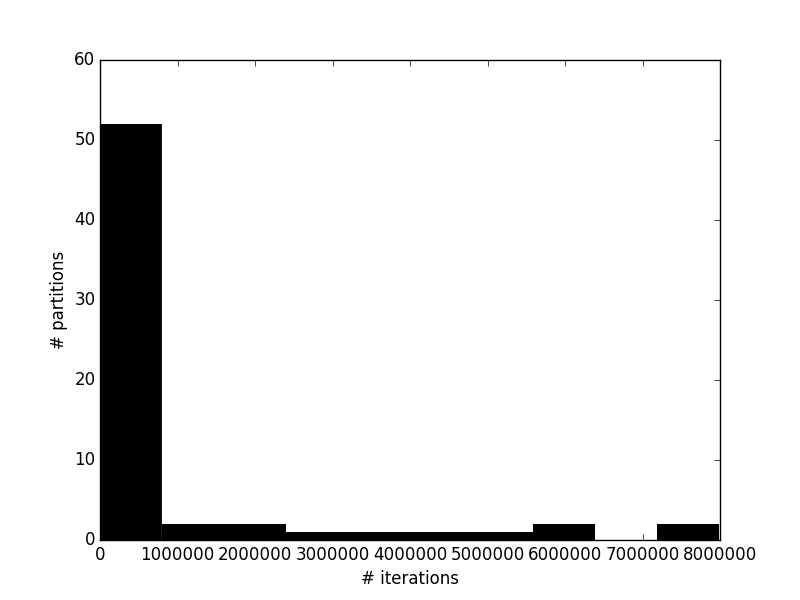
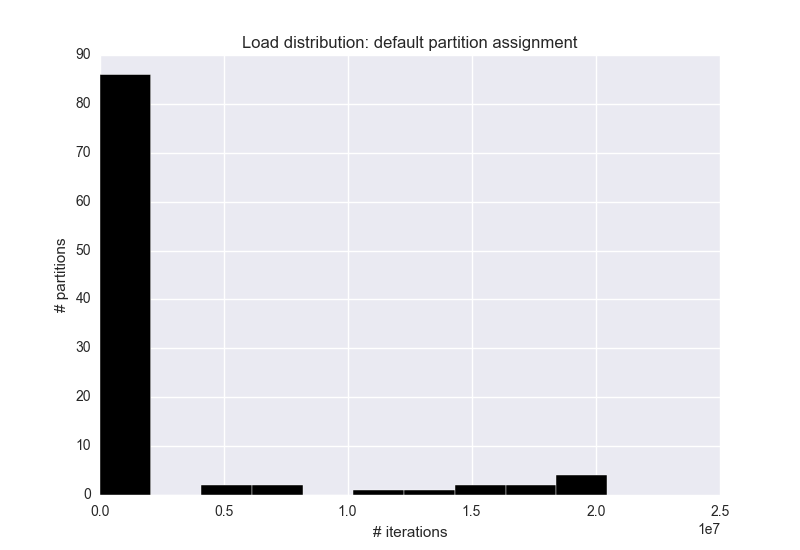
Finished code for P2

diff --git a/HW1/P2/P2a.py b/HW1/P2/P2a.py
@@ -9,76 +9,51 @@ findspark.init()
 import pyspark
 sc = pyspark.SparkContext(appName="Spark 2")
 
-
-# In[2]:
-
 import numpy as np
 import matplotlib.pyplot as plt 
 import matplotlib.cm as cm
+import seaborn
+from P2 import *
 
 
-# In[3]:
-
-# Given functions
-def mandelbrot(x, y):
-    z = c = complex(x, y)
-    iteration = 0
-    max_iteration = 511  # arbitrary cutoff
-    while abs(z) < 2 and iteration < max_iteration:
-        z = z * z + c
-        iteration += 1
-    return iteration
-
-def sum_values_for_partitions(rdd):
-    'Returns (as an RDD) the sum of V for each partition of a (K, V) RDD'
-    # note that the function passed to mapPartitions should return a sequence,
-    # not a value.
-    return rdd.mapPartitions(lambda part: [sum(V for K, V in part)])
-
-def draw_image(rdd):
-    '''Given a (K, V) RDD with K = (I, J) and V = count,
-    display an image of count at each I, J'''
-
-    data = rdd.collect()
-    I = np.array([d[0][0] for d in data])
-    J = np.array([d[0][1] for d in data])
-    C = np.array([d[1] for d in data])
-    im = np.zeros((I.max() + 1, J.max() + 1))
-    im[I, J] = np.log(C + 1)  # log intensity makes it easier to see levels
-    plt.imshow(im, cmap=cm.gray)
-    plt.show()
-
-
-# In[77]:
+# In[4]:
 
 # Construct indices to span the 2000 by 2000 grid 
 # of Mandelbrot computations
 gridsz = 2000
-n_parts = 100
+n_parts = 10
 rdd = sc.parallelize(np.arange(gridsz), n_parts)
 rdd_paired = rdd.cartesian(rdd)
 
 
-# In[78]:
+# In[7]:
 
 # Compute mendelbrot on each pixel. 
 # Note that dimensions (x, y) correspond to (j, i)
 def map2xy(ij_coord):
-    return ij_coord / 250.0 - 2
-res = rdd_pair.map(lambda IJ: (IJ, mandelbrot(map2xy(IJ[1]), map2xy(IJ[0])))) 
+    return ij_coord / (gridsz / 4.0) - 2
+res = rdd_paired.map(
+    lambda IJ: (IJ, mandelbrot(map2xy(IJ[1]), map2xy(IJ[0])))).cache()
 
 
-# In[79]:
+# In[8]:
 
 draw_image(res)
 
 
-# In[86]:
+# In[10]:
+
+sum_vals = sum_values_for_partitions(res).collect()
+
+
+# In[14]:
 
 # Plot and save the histogram of work across partitions
-plt.hist(sum_values_for_partitions(res).collect(), 
-         facecolor = 'k', edgecolor = 'None')
+plt.figure()
+plt.hist(sum_vals, facecolor = 'k', edgecolor = 'w')
 plt.xlabel('# iterations')
 plt.ylabel('# partitions')
+plt.title('Load distribution: default partition assignment')
+# plt.show()
 plt.savefig('P2a_hist.png')
 

diff --git a/HW1/P2/P2b.py b/HW1/P2/P2b.py
@@ -1,3 +1,75 @@
+
+# coding: utf-8
+
+# In[1]:
+
+import findspark
+findspark.init()
+
+import pyspark
+sc = pyspark.SparkContext()
+
+import numpy as np
+import matplotlib.pyplot as plt 
+import matplotlib.cm as cm
+import seaborn
 from P2 import *
 
-# Your code here
+
+# In[80]:
+
+# Construct indices to span the 2000 by 2000 grid 
+# of Mandelbrot computations
+gridsz = 2000
+n_parts = 10
+rdd = sc.parallelize(np.arange(gridsz), n_parts)
+
+# This should have n_parts^2 partitions
+rdd_paired = rdd.cartesian(rdd).map(lambda x: (x, 0))
+
+
+# In[82]:
+
+# Check the number of partitions
+print(len(rdd.glom().collect()))
+print(len(rdd_paired.glom().collect()))
+
+
+# In[88]:
+
+# Hash to a random partition
+def rhash(x):
+    return np.random.random_integers(0, 99)
+rdd_custom_rand = rdd_paired.partitionBy(n_parts**2, rhash)
+
+
+# In[92]:
+
+# Compute mendelbrot on each pixel. 
+# Note that dimensions (x, y) correspond to (j, i)
+def map2xy(ij_coord):
+    return ij_coord / (gridsz / 4.0) - 2
+res_rand = rdd_custom_rand.map(lambda IJ: (IJ[0], mandelbrot(map2xy(IJ[0][1]), map2xy(IJ[0][0])))) 
+
+
+# In[21]:
+
+draw_image(res)
+
+
+# In[94]:
+
+work_load_rand = sum_values_for_partitions(res_rand).collect()
+
+
+# In[106]:
+
+# Plot and save the histogram of work across partitions
+plt.figure()
+plt.hist(work_load_rand, facecolor = 'k', edgecolor = 'w')
+plt.xlabel('# iterations')
+plt.ylabel('# partitions')
+plt.title('Load distribution: random partition assignment')
+# plt.show()
+plt.savefig('P2b_hist.png')
+
